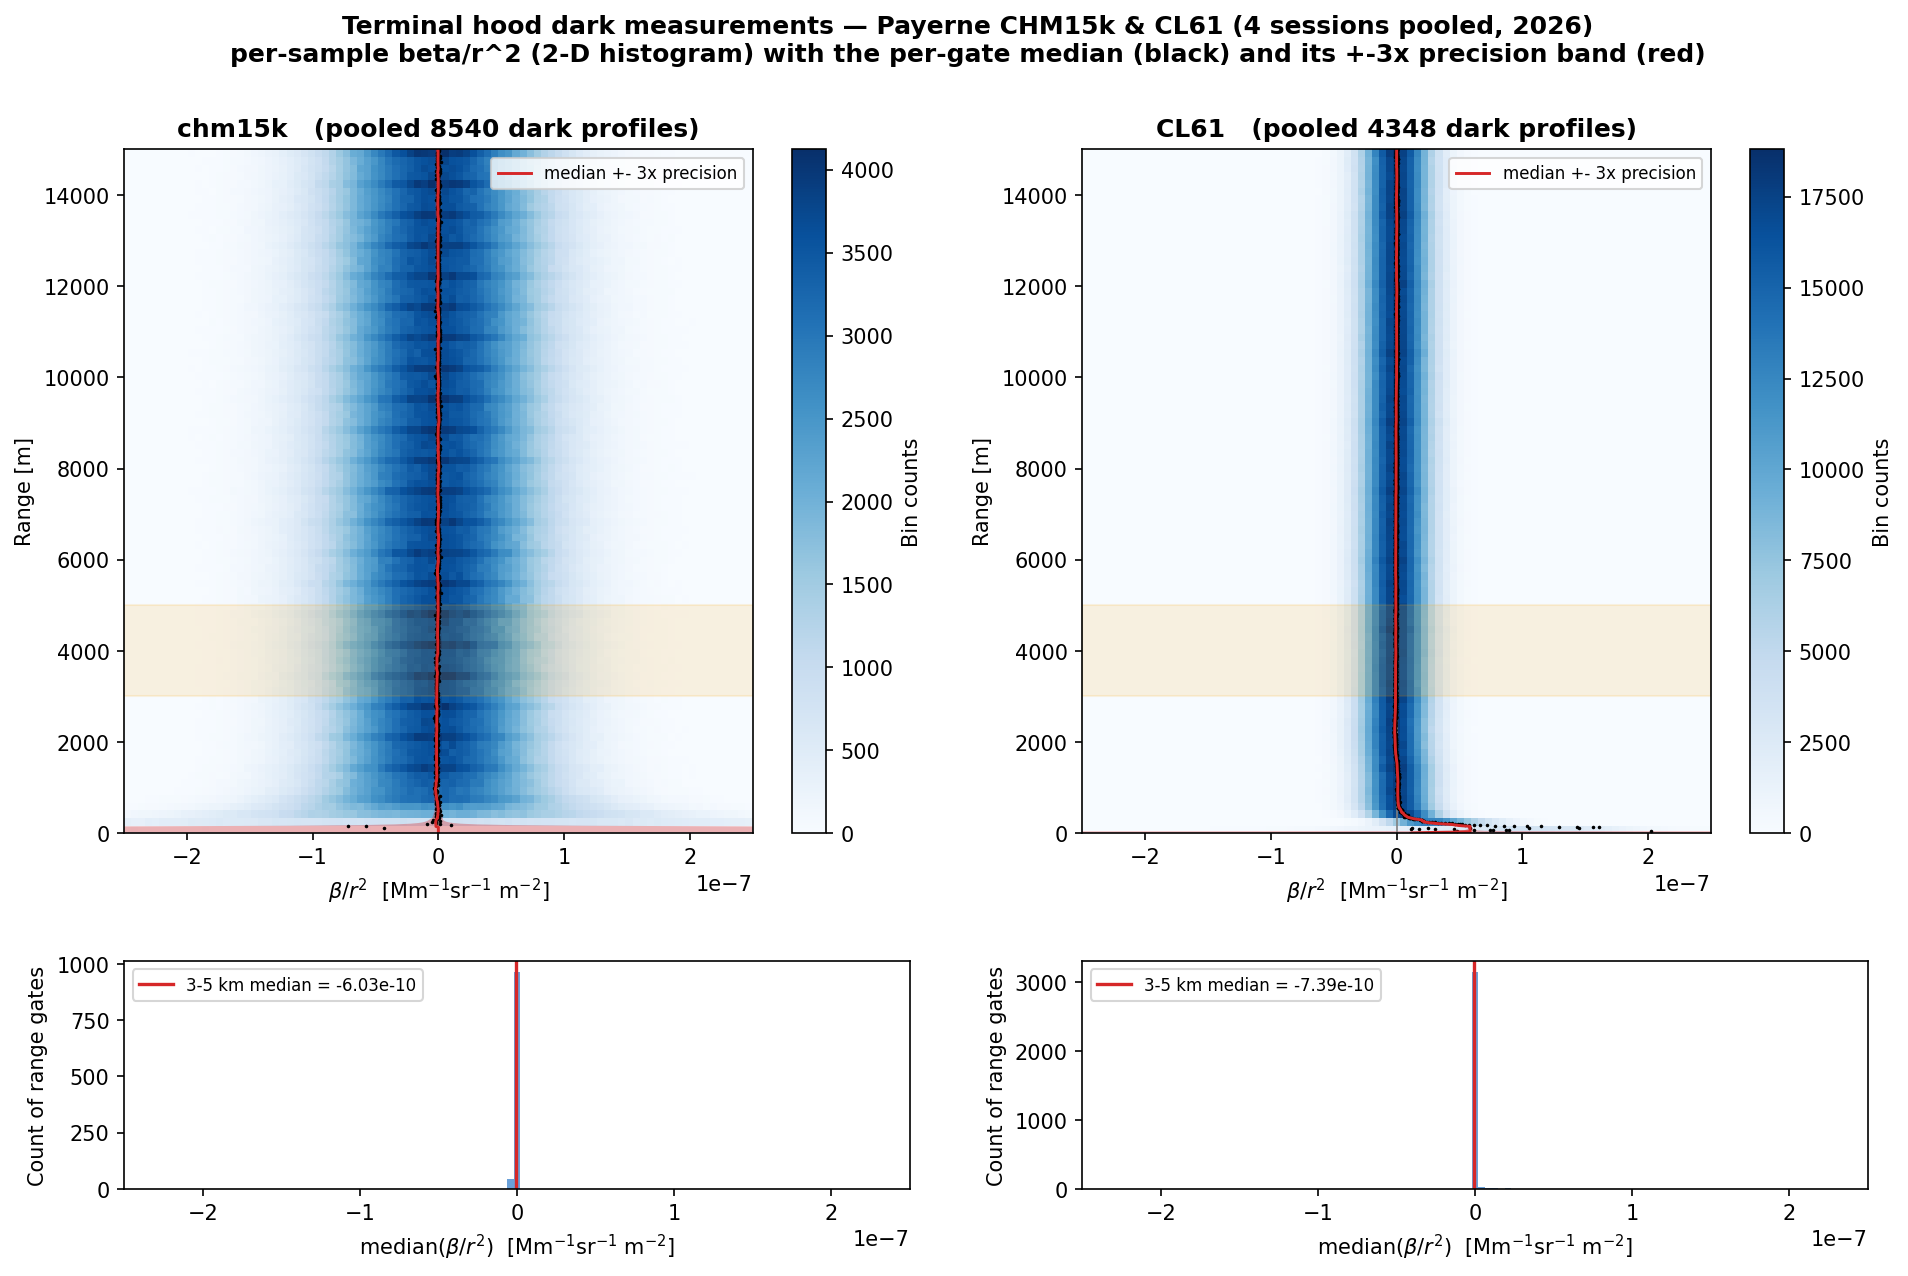
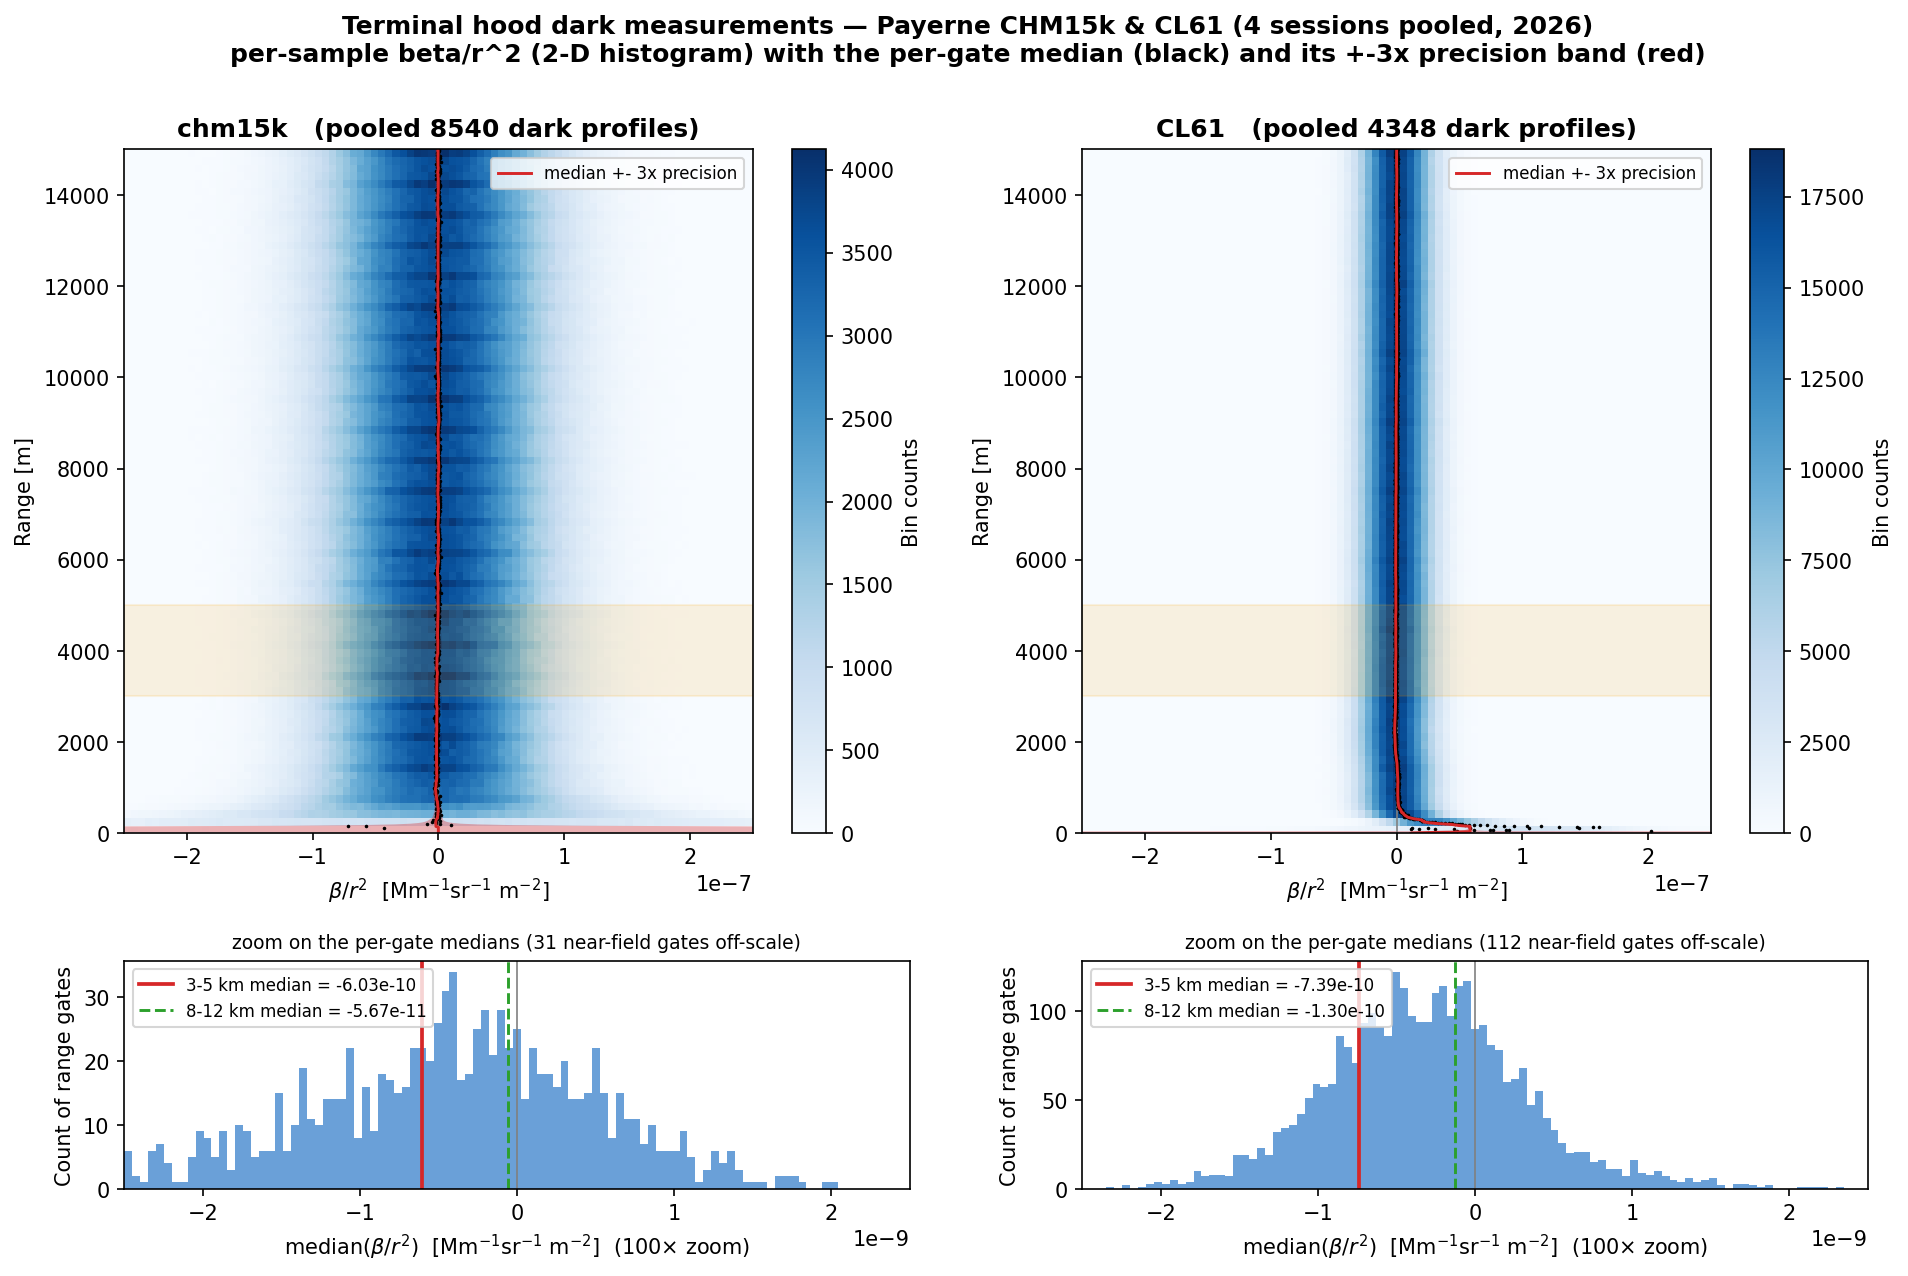
binscatter fig: zoom the median histograms 100x to show the offset
The per-gate median(beta/r^2) histograms were uninformative at the +-2.5e-7
per-sample scale (a spike on 0). Zoom to +-2.5e-9: the distributions now sit left
of zero, with the 3-5 km median at -6.0e-10 (CHM15k) / -7.4e-10 (CL61) and the
8-12 km median marked, making the negative weak-signal offset visible. Near-field
gates go off-scale (counted in the panel title).

Changed region(s): [[0.0, 0.7335, 0.4329, 1.0], [0.4948, 0.7335, 0.9277, 1.0]]

diff --git a/validation/paper/_hood_binscatter.py b/validation/paper/_hood_binscatter.py
@@ -79,12 +79,18 @@ for k, (inst, (ident, CL, wins)) in enumerate(INST.items()):
     ax.legend(loc="upper right", fontsize=8)
 
     axh = fig.add_subplot(gs[1, k])
-    axh.hist(med[np.isfinite(med)], bins=np.linspace(-XLIM, XLIM, 120), color="#6aa0d8")
+    HX = 2.5e-9                       # zoom ~100x: the offset lives here, far below the per-sample noise
+    axh.hist(med[np.isfinite(med) & (np.abs(med) <= HX)], bins=np.linspace(-HX, HX, 100), color="#6aa0d8")
     axh.axvline(0, color="0.5", lw=0.8)
-    axh.axvline(np.nanmedian(meds[(rng >= 3000) & (rng <= 5000)]), color="#d62728", lw=1.6,
-                label=f"3-5 km median = {np.nanmedian(meds[(rng>=3000)&(rng<=5000)]):+.2e}")
-    axh.set_xlim(-XLIM, XLIM); axh.set_xlabel(r"median($\beta/r^2$)  [Mm$^{-1}$sr$^{-1}$ m$^{-2}$]")
-    axh.set_ylabel("Count of range gates"); axh.legend(fontsize=8, loc="upper left")
+    m35 = np.nanmedian(meds[(rng >= 3000) & (rng <= 5000)])
+    m812 = np.nanmedian(meds[(rng >= 8000) & (rng <= 12000)])
+    axh.axvline(m35, color="#d62728", lw=1.8, label=f"3-5 km median = {m35:+.2e}")
+    axh.axvline(m812, color="#2ca02c", lw=1.4, ls="--", label=f"8-12 km median = {m812:+.2e}")
+    noff = int((np.abs(med[np.isfinite(med)]) > HX).sum())
+    axh.set_xlim(-HX, HX); axh.set_xlabel(r"median($\beta/r^2$)  [Mm$^{-1}$sr$^{-1}$ m$^{-2}$]  (100$\times$ zoom)")
+    axh.set_ylabel("Count of range gates")
+    axh.set_title(f"zoom on the per-gate medians ({noff} near-field gates off-scale)", fontsize=9)
+    axh.legend(fontsize=8, loc="upper left")
 
 fig.suptitle("Terminal hood dark measurements — Payerne CHM15k & CL61 (4 sessions pooled, 2026)\n"
              "per-sample beta/r^2 (2-D histogram) with the per-gate median (black) and its +-3x precision band (red)",
